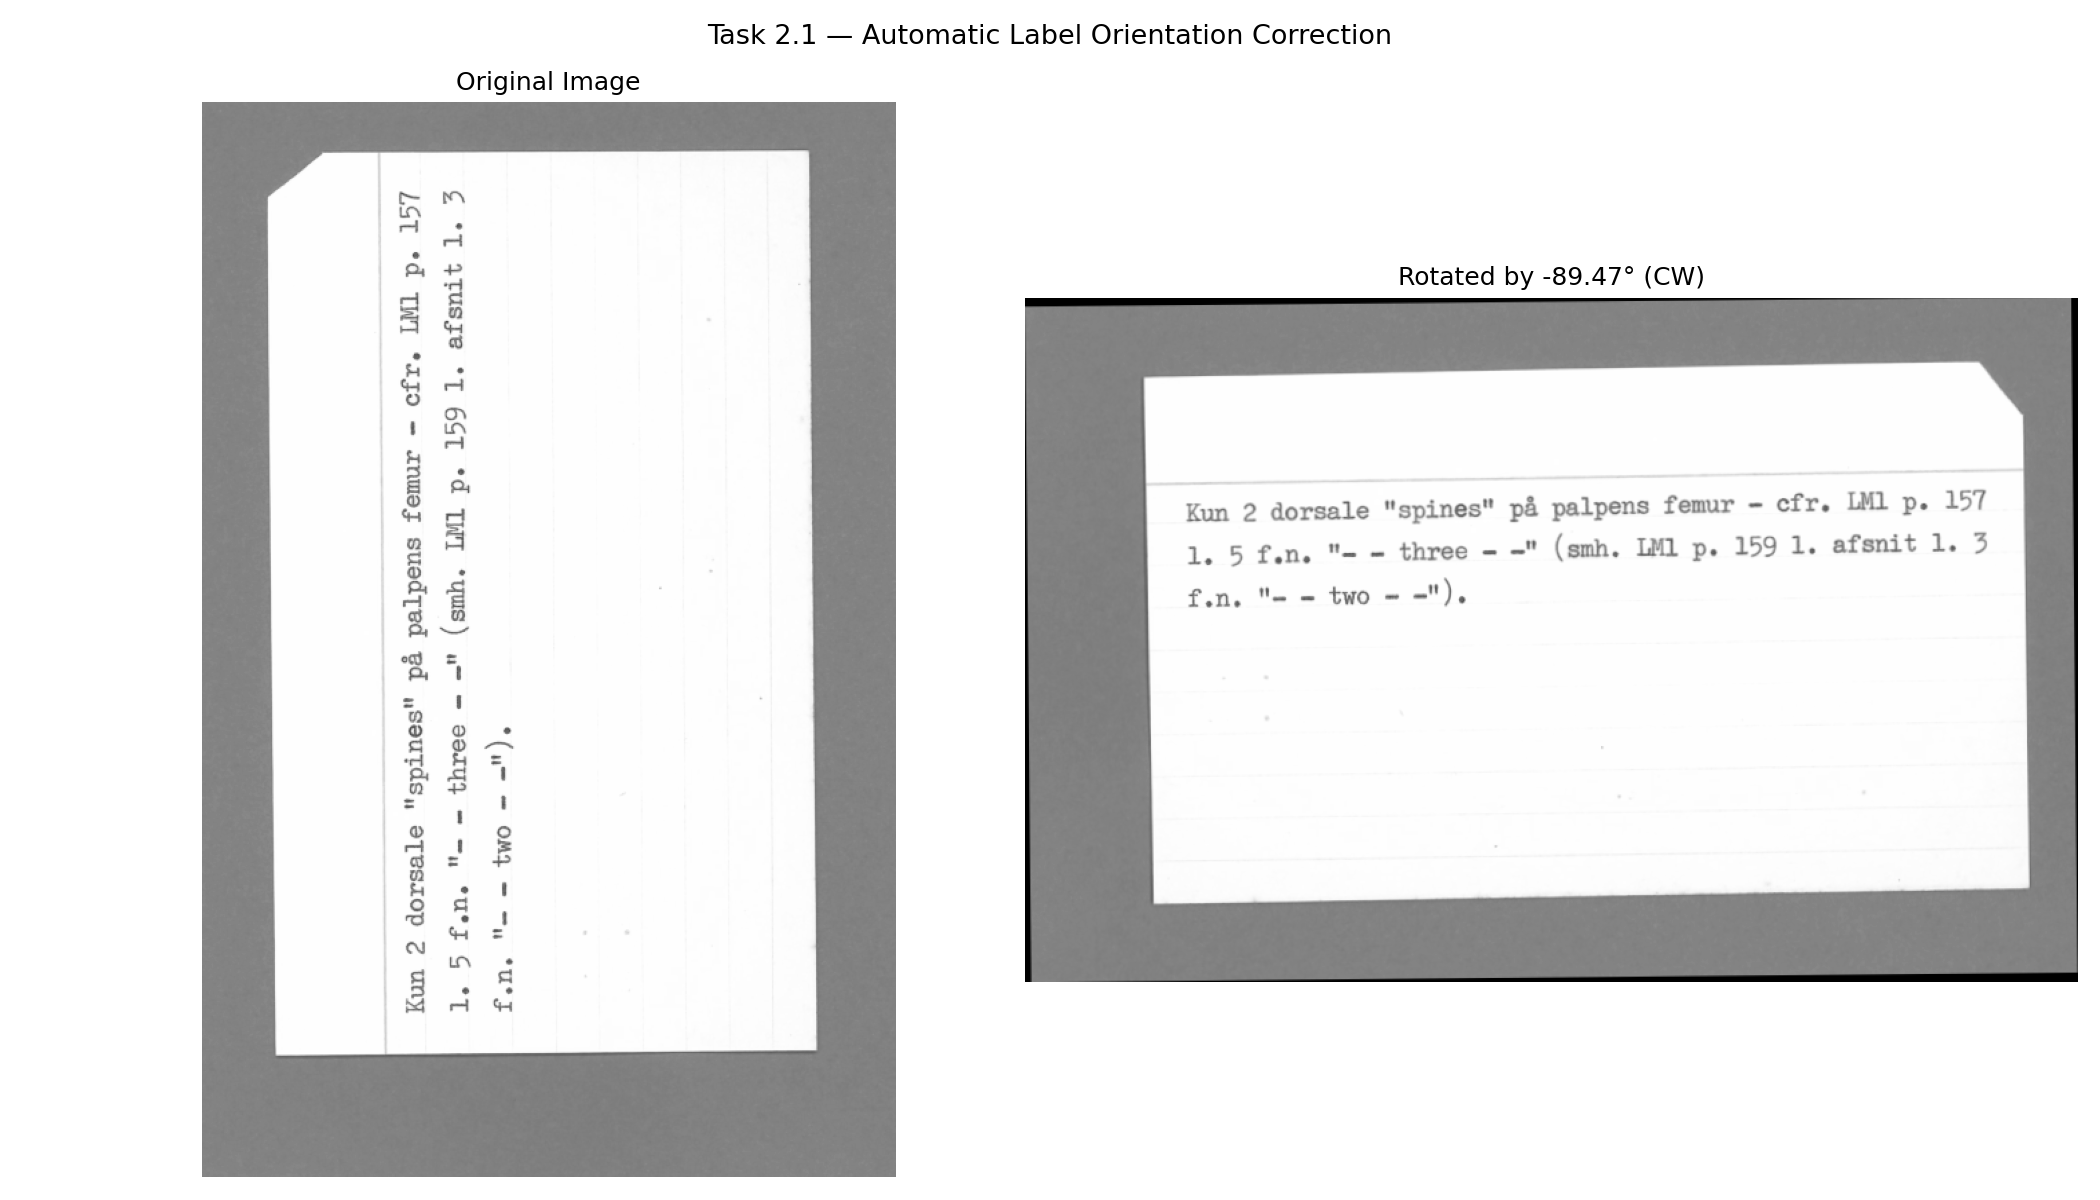
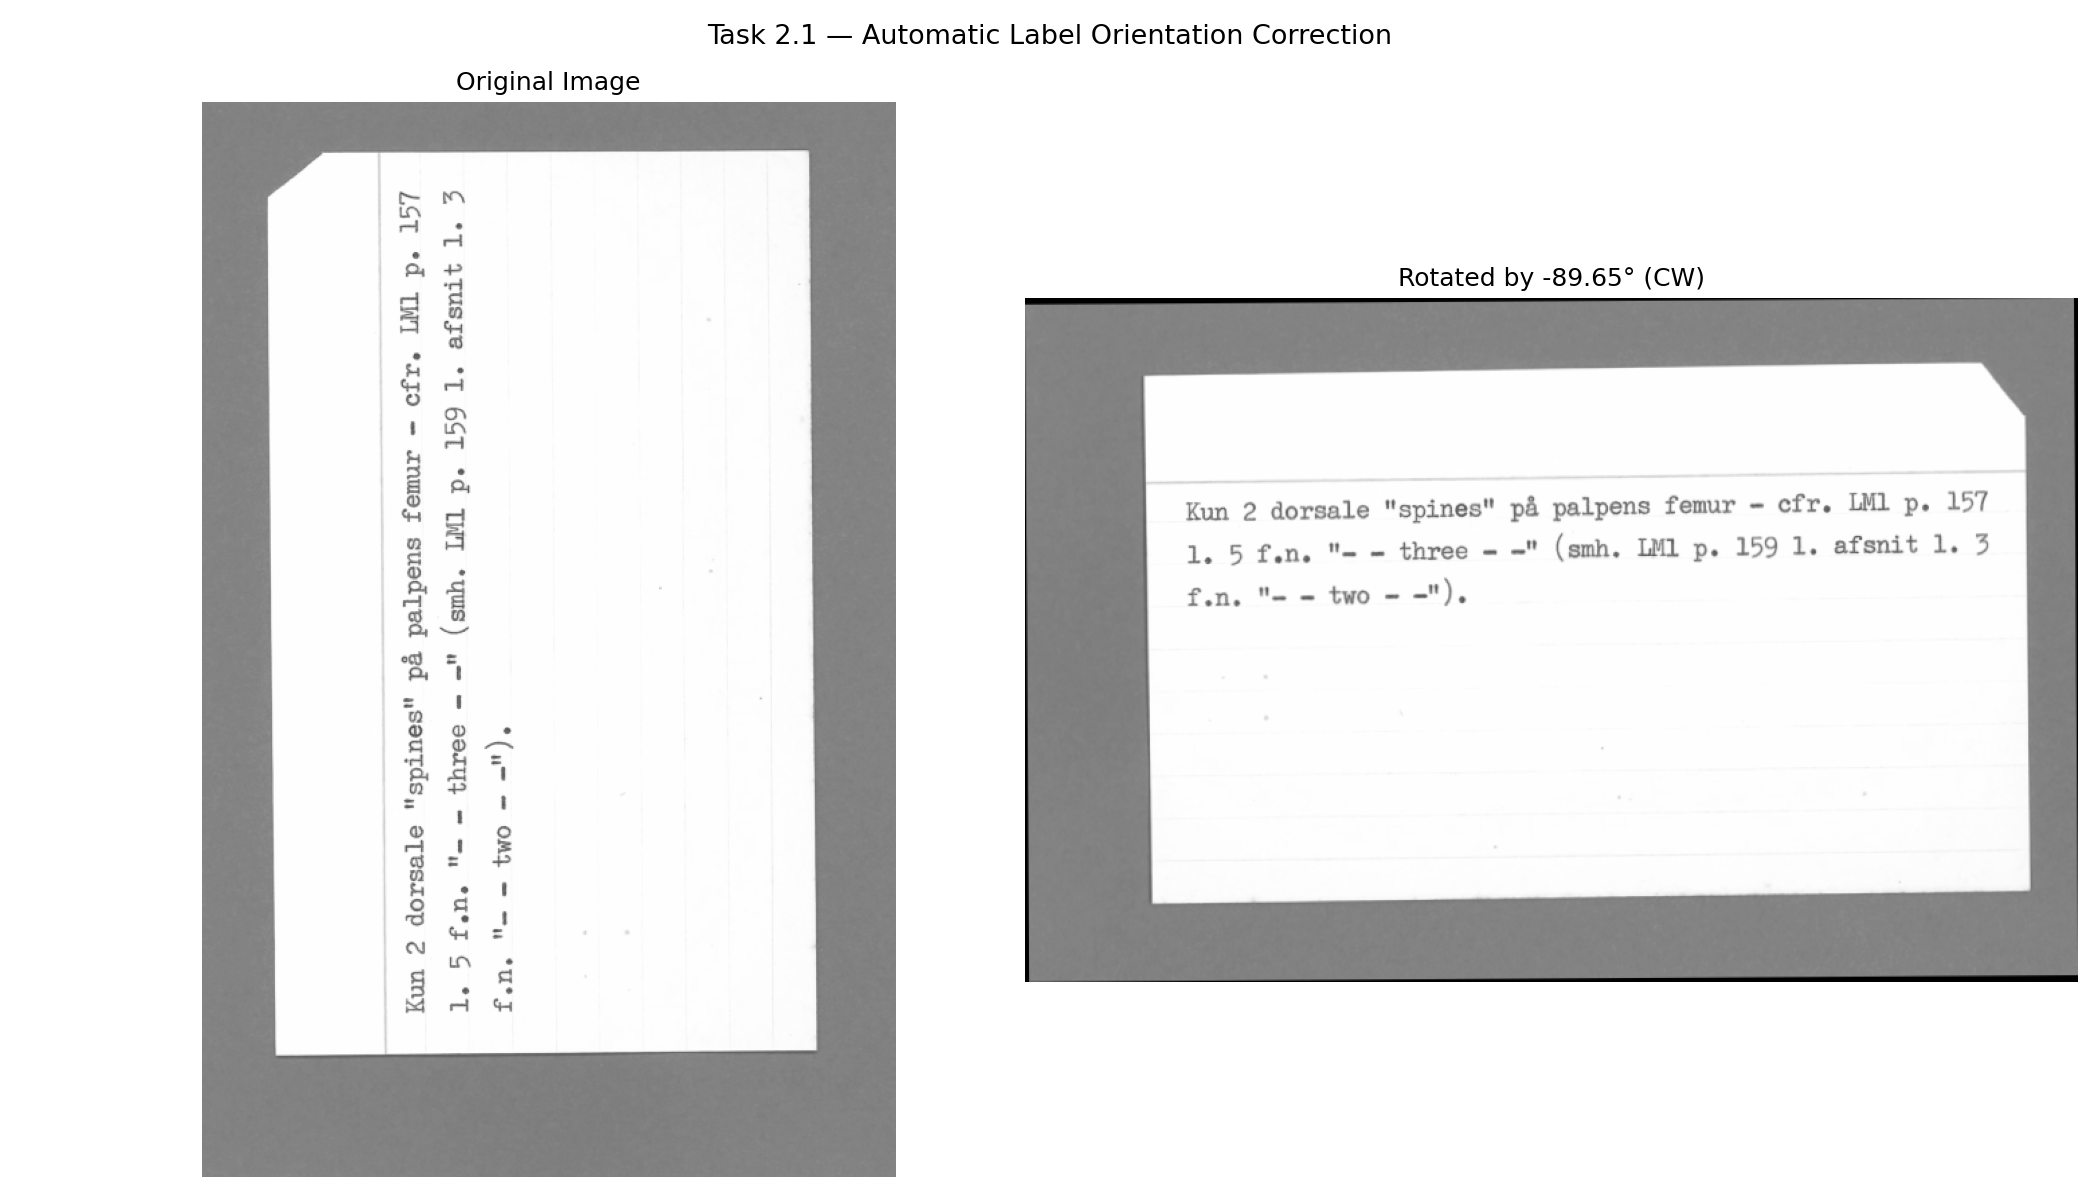
Fix Task 2.1: use Otsu mask for card corner detection
Replace Harris extreme-projection with binary mask extreme-projection
so the physical fold at UL no longer wins min(r+c). Both long sides now
agree to 0.35 degrees; rotation updated to -89.65 degrees CW.

diff --git a/Assignment_6/Solution.py b/Assignment_6/Solution.py
@@ -235,60 +235,54 @@ def part_2_1():
     corners = corner_peaks(harris_resp, min_distance=25, threshold_rel=0.05)
     print(f"Harris detected {len(corners)} corners")
 
-    # ── Step 2: Heuristic — find the 4 label corners via extreme projections ──
-    # The 4 card corners are the most extreme points in the image. Text corners
-    # are all interior to the card, so they never win any of these extremes.
-    #   min(r + c)  →  upper-left  (UL)
-    #   max(r + c)  →  lower-right (LR)
-    #   min(r - c)  →  upper-right (UR)
-    #   max(r - c)  →  lower-left  (LL)
-    r = corners[:, 0].astype(float)
-    c = corners[:, 1].astype(float)
+    # ── Step 2: Find the 4 true label corners from the binary card mask ──
+    # The card has a physical fold/notch at one corner. Harris detects the
+    # fold as a strong corner feature, so extreme projections on Harris points
+    # land on the fold rather than the true card corner.
+    # Fix: Otsu-threshold the image to isolate the white card region.
+    # A physical concavity (fold) can never win an extreme projection on the
+    # white pixel set, so all 4 resulting points are the true card corners.
+    from skimage.filters import threshold_otsu
+    t_otsu = threshold_otsu(img)
+    mask = img > t_otsu
+    ys, xs = np.where(mask)
+    print(f"Otsu threshold: {t_otsu:.3f}")
 
-    p_ul = corners[np.argmin(r + c)]
-    p_lr = corners[np.argmax(r + c)]
-    p_ur = corners[np.argmin(r - c)]
-    p_ll = corners[np.argmax(r - c)]
+    rm, cm = ys.astype(float), xs.astype(float)
+    p_ul = np.array([ys[np.argmin(rm + cm)], xs[np.argmin(rm + cm)]])
+    p_lr = np.array([ys[np.argmax(rm + cm)], xs[np.argmax(rm + cm)]])
+    p_ur = np.array([ys[np.argmin(rm - cm)], xs[np.argmin(rm - cm)]])
+    p_ll = np.array([ys[np.argmax(rm - cm)], xs[np.argmax(rm - cm)]])
 
     print("Label corners (row, col):")
     for name, p in [("UL", p_ul), ("UR", p_ur), ("LL", p_ll), ("LR", p_lr)]:
         print(f"  {name}: row={p[0]}, col={p[1]}")
 
-    # ── Step 3: Estimate rotation from the two long sides ────────────────
+    # ── Step 3: Estimate rotation by averaging the two long sides ────────
     # The label is ~90° CCW from its readable orientation, so its long sides
     # (left: UL→LL, right: UR→LR) run roughly vertically in the image.
-    # arctan2(drow, dcol) gives the angle of each side from horizontal.
-    # For a nearly vertical side this is ~90°.
-    # Heuristic: the label may have a physical notch at one corner (which
-    # Harris detects instead of the true geometric corner). We pick the long
-    # side whose angle is closest to 90°, since the other side is likely
-    # affected by a spurious corner.
+    # arctan2(drow, dcol) gives each side's angle from horizontal (~90°).
+    # With both corners now correct we can average for a robust estimate.
     vec_left  = p_ll - p_ul   # UL → LL  (left long side)
     vec_right = p_lr - p_ur   # UR → LR  (right long side)
 
     angle_left  = np.degrees(np.arctan2(vec_left[0],  vec_left[1]))
     angle_right = np.degrees(np.arctan2(vec_right[0], vec_right[1]))
-
-    # Select the side closest to vertical (90°) as the reliable estimate
-    if abs(angle_left - 90) <= abs(angle_right - 90):
-        angle_long = angle_left
-        print(f"Using LEFT long side (angle {angle_left:.2f}°, dev {abs(angle_left-90):.2f}°)")
-    else:
-        angle_long = angle_right
-        print(f"Using RIGHT long side (angle {angle_right:.2f}°, dev {abs(angle_right-90):.2f}°)")
+    angle_avg   = (angle_left + angle_right) / 2
 
     print(f"Long-side angle left : {angle_left:.2f}°")
     print(f"Long-side angle right: {angle_right:.2f}°")
+    print(f"Average long-side angle : {angle_avg:.2f}°")
 
     # skimage.transform.rotate: positive = CCW, negative = CW.
-    # To make the long side horizontal we rotate CW by angle_long (≈ 90°).
-    rotation_angle = -angle_long
+    # To make the long side horizontal we rotate CW by angle_avg (≈ 90°).
+    rotation_angle = -angle_avg
     print(f"Applied rotation (skimage): {rotation_angle:.2f}°")
 
     # ── Step 4: Rotate ───────────────────────────────────────────────────
     rotated = rotate(img, rotation_angle, resize=True)
 
-    # ── Figure 1: All Harris corners + label corners overlaid ────────────
+    # ── Figure 1: Harris corners + true label corners overlaid ───────────
     fig, ax = plt.subplots(figsize=(6, 9))
     ax.imshow(img, cmap="gray", vmin=0, vmax=1)
     ax.scatter(corners[:, 1], corners[:, 0],
